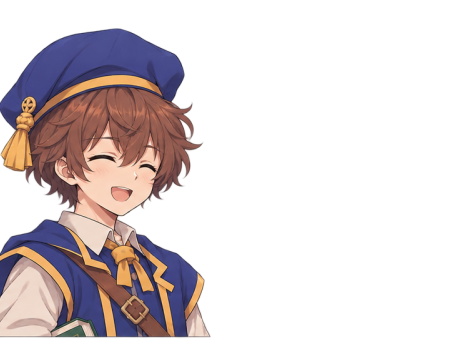
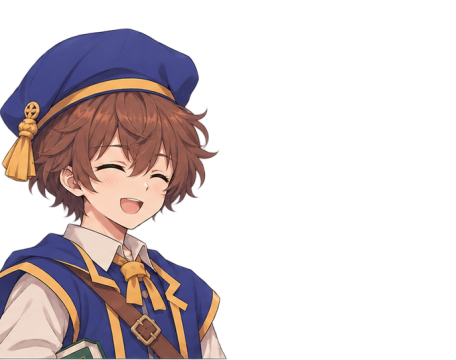
fix(game): rapatkan potret ke panel dan hapus MC di obrolan NPC
Beberapa karakter berbadan pendek (Bu Sri, Pak Joko, Dewi) masih menyisakan
celah transparan di bawah kanvas, jadi potretnya tampak melayang di atas kotak
dialog. Importer sekarang menaikkan skala karakter seperti itu dengan satu
faktor yang sama untuk semua ekspresinya sampai isi potret menyentuh tepi bawah
kanvas — kepala tetap rata di margin atas dan potret tidak melompat saat
ekspresi berganti. Ditambah pemeriksa di importer yang melempar error kalau
masih ada potret yang mengapung.

Potret MC kini juga tidak lagi ikut tampil di obrolan singkat NPC non-quest
(ADR 0016); MC hanya menemani dialog scene yang memang memuat giliran MC.

Changed region(s): [[0.0, 0.0611, 0.5219, 1.0], [0.1228, 0.0917, 0.1842, 0.1222]]

diff --git a/src/game/scenes/GameScene.ts b/src/game/scenes/GameScene.ts
@@ -1211,15 +1211,16 @@ export class GameScene extends Phaser.Scene {
    * atau NPC terakhir saat MC yang mengambil giliran. Potret ini tetap tampil
    * tetapi diredupkan `DialogueBox`; `null` bila tidak ada pasangan.
    *
-   * MC hanya menemani kalau scene memang punya giliran MC, atau saat obrolan
-   * singkat — dialog antar-NPC tidak perlu potret pemain yang tidak ikut bicara.
+   * MC hanya menemani dialog cerita yang memang punya giliran MC. Dialog
+   * antar-NPC dan obrolan singkat NPC non-quest tampil tanpa potret MC — pemain
+   * tidak sedang menanggapi apa pun di situ.
    */
   private potretLawan(speakerId: string | null): PortraitView | null {
     if (!speakerId) return null;
     if (speakerId === this.playerId) {
       return this.potretUntuk(this.lawanBicaraTerakhir);
     }
-    if (!this.sceneAdaPemain && !this.obrolanAktif) return null;
+    if (this.obrolanAktif || !this.sceneAdaPemain) return null;
     return this.potretUntuk(this.playerId);
   }
 

diff --git a/src/game/potret.ts b/src/game/potret.ts
@@ -4,10 +4,9 @@ import type { Scene } from "@/story/schema";
  * Apakah sebuah scene memberi giliran bicara kepada pemain (MC).
  *
  * Potret MC hanya menemani dialog kalau MC memang ikut bicara di scene itu.
- * Dialog antar-NPC yang tidak melibatkan pemain lebih rapi tanpa potret MC —
- * potret itu tidak sedang menanggapi apa pun. Obrolan singkat di luar cerita
- * (ADR 0016) sengaja dikecualikan pemanggilnya: di sana potret MC dipakai agar
- * layar tidak terasa sepi.
+ * Dialog antar-NPC yang tidak melibatkan pemain — dan obrolan singkat dengan
+ * NPC non-quest (ADR 0016) — tampil tanpa potret MC, karena pemain tidak
+ * sedang menanggapi apa pun di situ.
  */
 export function sceneMelibatkanPemain(
   scene: Scene | null | undefined,

diff --git a/docs/04-game/scene-format.md b/docs/04-game/scene-format.md
@@ -130,15 +130,15 @@ bebas bergerak.
 └──────────────────────────────────────────────────────┘
 ```
 
-| Elemen    | Posisi/ukuran                                                                                                                                                                                                                                      |
-| --------- | -------------------------------------------------------------------------------------------------------------------------------------------------------------------------------------------------------------------------------------------------- |
-| Dunia     | Peta desa 2390×1792, digambar `setOrigin(0)`, `setDepth(-100000)`                                                                                                                                                                                  |
-| Pemain    | Sprite dunia, `setOrigin(0.5, 1)`, `setDepth(y)`                                                                                                                                                                                                   |
-| Textbox   | 608×104, terpusat horizontal, `y=240`; kotak navy gelap membulat (CSS)                                                                                                                                                                             |
-| Potret    | Dua slot setengah panel (kanvas 456×360): NPC menempel kiri, MC dicerminkan di kanan; pembicara menyala, lawan bicara meredup; dasar menempel tepi atas panel (DOM). Potret MC hanya muncul bila scene memuat giliran MC atau saat obrolan singkat |
-| Nama      | Di dalam textbox, baris pertama (DOM)                                                                                                                                                                                                              |
-| Teks      | Maks 240 karakter per beat (batas schema), dirender utuh (DOM)                                                                                                                                                                                     |
-| Indikator | Panah kecil berkedip di kanan bawah saat menunggu (DOM)                                                                                                                                                                                            |
+| Elemen    | Posisi/ukuran                                                                                                                                                                                                                                                                                        |
+| --------- | ---------------------------------------------------------------------------------------------------------------------------------------------------------------------------------------------------------------------------------------------------------------------------------------------------- |
+| Dunia     | Peta desa 2390×1792, digambar `setOrigin(0)`, `setDepth(-100000)`                                                                                                                                                                                                                                    |
+| Pemain    | Sprite dunia, `setOrigin(0.5, 1)`, `setDepth(y)`                                                                                                                                                                                                                                                     |
+| Textbox   | 608×104, terpusat horizontal, `y=240`; kotak navy gelap membulat (CSS)                                                                                                                                                                                                                               |
+| Potret    | Dua slot setengah panel (kanvas 456×360): NPC menempel kiri, MC dicerminkan di kanan; pembicara menyala, lawan bicara meredup; dasar menempel tepi atas panel (DOM). Potret MC hanya muncul bila scene memuat giliran MC — dialog antar-NPC dan obrolan singkat NPC non-quest tampil tanpa potret MC |
+| Nama      | Di dalam textbox, baris pertama (DOM)                                                                                                                                                                                                                                                                |
+| Teks      | Maks 240 karakter per beat (batas schema), dirender utuh (DOM)                                                                                                                                                                                                                                       |
+| Indikator | Panah kecil berkedip di kanan bawah saat menunggu (DOM)                                                                                                                                                                                                                                              |
 
 > **Semua di DOM (ADR 0007 + ADR 0017).** Phaser hanya memegang state typewriter
 > (`textbox.ts`); panel, potret, nama, isi dialog, dan indikator "lanjut" dirender
@@ -155,15 +155,17 @@ bebas bergerak.
 > aslinya berbeda (`scripts/import-portraits.mjs`). Semua potret satu karakter
 > digeser dengan satu nilai tetap lalu dipotong sedikit di sisi luarnya,
 > sehingga karakternya mentok sejajar sisi kotak dialog dan tidak melompat saat
-> ekspresi berganti; kanvasnya 456×360 dan disimpan dengan filter PNG adaptif
-> supaya cepat dimuat. Saat satu pihak bicara, potretnya menyala dan potret
+> ekspresi berganti. Karakter berbadan pendek dinaikkan skalanya sedikit supaya
+> isinya menyentuh tepi bawah kanvas — potret tidak tampak melayang di atas
+> kotak. Kanvasnya 456×360 dan disimpan dengan filter PNG adaptif supaya cepat
+> dimuat. Saat satu pihak bicara, potretnya menyala dan potret
 > lawan bicara tetap tampil tetapi diredupkan; giliran MC membuat potret NPC
 > meredup, begitu pula sebaliknya, dan sorot itu bertahan selama sesi dialog.
 > Potret MC hanya menemani dialog di scene yang memang memberi giliran bicara
-> kepada MC (`src/game/potret.ts`) atau saat obrolan singkat (ADR 0016); dialog
-> antar-NPC tampil tanpa potret MC. Selama soal belum dijawab, kedua potret
-> disembunyikan; setelah dinilai keduanya tampil lagi untuk umpan balik
-> senang/marah.
+> kepada MC (`src/game/potret.ts`); dialog antar-NPC dan obrolan singkat dengan
+> NPC non-quest (ADR 0016) tampil tanpa potret MC. Selama soal belum dijawab,
+> kedua potret disembunyikan; setelah dinilai keduanya tampil lagi untuk umpan
+> balik senang/marah.
 >
 > Panel dan potret punya animasi buka/tutup: panel menyala seperti TV tabung
 > dari garis tipis di tengah dan menutup kembali ke tengah, sedangkan potret

diff --git a/docs/09-decisions/0017-potret-ekspresi-persona.md b/docs/09-decisions/0017-potret-ekspresi-persona.md
@@ -84,9 +84,9 @@ Aturan bentuknya:
   disembunyikan supaya tidak menutupi pilihan jawaban; setelah dinilai keduanya
   tampil lagi untuk umpan balik senang/marah.
 - Potret MC hanya menemani dialog di scene yang memang memberi giliran bicara
-  kepada MC (`beats.some(speakerId === id pemain)`, lihat `src/game/potret.ts`)
-  atau saat obrolan singkat (ADR 0016). Dialog antar-NPC tampil tanpa potret MC
-  karena pemain tidak sedang menanggapi apa pun.
+  kepada MC (`beats.some(speakerId === id pemain)`, lihat `src/game/potret.ts`).
+  Dialog antar-NPC dan obrolan singkat dengan NPC non-quest (ADR 0016) tampil
+  tanpa potret MC karena pemain tidak sedang menanggapi apa pun.
 - Panel dialog dan potret punya animasi buka/tutup sendiri: panel menyala seperti
   TV tabung dari garis tipis di tengah, potret terbit dari balik panel; saat
   dialog selesai panel memipih kembali ke tengah dan potret tenggelam.
@@ -105,7 +105,9 @@ Alasan:
    gambar) dan menggeser semua potret satu karakter dengan **satu nilai tetap**,
    lalu memotong sedikit sisi luarnya; jadi wajah semua karakter sama besar,
    karakternya mentok sejajar sisi kotak, dan potret tidak melompat saat ekspresi
-   berganti. Itu siluet dialog Persona yang dituju.
+   berganti. Karakter berbadan pendek dinaikkan skalanya sedikit supaya isinya
+   menyentuh tepi bawah kanvas — tidak ada celah transparan yang membuat potret
+   tampak melayang di atas kotak. Itu siluet dialog Persona yang dituju.
 3. Potret disusun ke kanvas 456×360 (rasio sama dengan slot) dan disimpan dengan
    filter PNG adaptif: 60 berkas turun dari ±21 MB ke ±8 MB, jadi potret pertama
    muncul jauh lebih cepat. `DialogueBox` juga memanaskan keenam ekspresi
@@ -178,7 +180,7 @@ Alasan:
 - [`0007-hybrid-ui.md`](0007-hybrid-ui.md) — pembagian Phaser dan DOM
 - [`0009-resolution-and-scale.md`](0009-resolution-and-scale.md) — kanvas
   640×360 dan `pixelated`
-- [`0016-obrolan-singkat-npc.md`](0016-obrolan-singkat-npc.md) — potret di
-  obrolan singkat
+- [`0016-obrolan-singkat-npc.md`](0016-obrolan-singkat-npc.md) — obrolan
+  singkat NPC (tanpa potret MC)
 - [`../07-assets/inventory.md`](../07-assets/inventory.md) — daftar berkas
   potret

diff --git a/docs/04-game/world-design.md b/docs/04-game/world-design.md
@@ -259,8 +259,12 @@ Keputusan (ADR 0007, diperluas ADR 0017): **teks permainan pindah ke DOM**.
   navy gelap membulat. Potret anime tidak dibungkus bingkai: NPC berdiri di
   pangkal kiri atas panel, MC (dicerminkan) di pangkal kanan — dasarnya menempel
   tepi atas panel — dan berekspresi sesuai field `expression` beat. Importer
-  menormalkan tinggi kepala dan menggeser potret sampai mentok tepi, jadi wajah
-  semua karakter sama besar dan karakternya sejajar sisi kotak. Pembicara
+  menormalkan tinggi kepala, menggeser potret sampai mentok tepi, dan menaikkan
+  skala karakter berbadan pendek supaya isinya menyentuh tepi bawah kanvas; jadi
+  wajah semua karakter sama besar, karakternya sejajar sisi kotak, dan tidak ada
+  potret yang melayang di atas panel. Potret MC hanya menemani dialog scene yang
+  memang memuat giliran MC — dialog antar-NPC dan obrolan singkat NPC non-quest
+  tampil tanpanya. Pembicara
   menyala, lawan bicaranya meredup dan tetap terlihat; selama soal belum dijawab
   kedua potret disembunyikan. Prompt interaksi `Space` juga DOM
   (`InteractHint.tsx`).

diff --git a/docs/07-assets/asset-guide.md b/docs/07-assets/asset-guide.md
@@ -105,7 +105,9 @@ tidak ada bagian potret yang tertutup kotak (ADR 0017). Importer menormalkan
 456×360 yang identik — wajah tiap karakter tampil sebesar yang sama dan
 rasionya sama. Seluruh potret satu karakter digeser dengan **satu nilai tetap**
 lalu dipotong sedikit di sisi luarnya, jadi karakternya mentok sejajar sisi
-kotak dialog dan tidak melompat sama sekali saat ekspresi berganti. MC
+kotak dialog dan tidak melompat sama sekali saat ekspresi berganti. Karakter
+berbadan pendek dinaikkan skalanya sedikit supaya isinya menyentuh tepi bawah
+kanvas, jadi potret tidak tampak melayang di atas kotak. MC
 dicerminkan di DOM sehingga rata kiri kanvas menjadi rata kanan slotnya. Berkas
 disimpan dengan filter PNG adaptif (±8 MB untuk 60 berkas) supaya cepat dimuat.
 Karena potret dirender DOM, berkasnya tidak dimuat `PreloadScene`.
